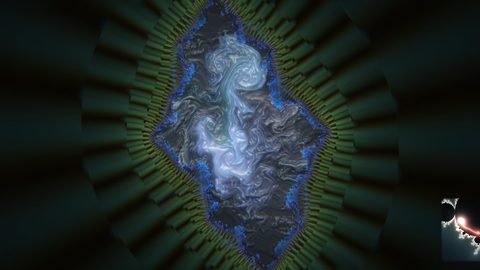
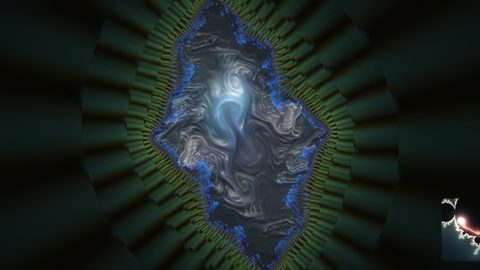
NAVPOOL: docs — §151 the edge is a paddle, unit 3, the accept tables
DECISIONS §151 (the remark, D1 as decided, the removals, the paddle's math and knobs, Toma's defaults, the deviations, the
BEFORE / PRED / AFTER tables, Toma's rulings, open items); docs/workers/navpool.md Unit 3 and the stale curl/vort/confinement
lines annotated; CONTRACTS' navpool row; index.js tag, card blurb and help (eli5 / why / math / kickEvt / kickAmp / mid / stir);
tools/accept/navpool/momentum-step4.txt, scene-md5-step4.txt, the spin strip and the look pairs (the tester's); the thumbnail 7:360.

Changed region(s): [[0.3125, 0.1185, 0.6562, 0.8593], [0.6562, 0.4741, 0.6875, 0.5037]]

diff --git a/assets/scenes/navpool/index.js b/assets/scenes/navpool/index.js
@@ -6,7 +6,8 @@
 // ../nav3/ copied, the program and hook names renamed (`n3*` → `np*`, hooks are dispatched by NAME across scenes); the Julia pass's
 // INTERIOR is a pool of ink lit as FLUID2 lights it (shaders-v2.js poolSh), over a trace of NAV3's Koenigs bands. Unit 2 (Toma: "I thought
 // the edge of the set would become the walls that it bounces the fluid off of?"): the pool is this scene's OWN solver (pool-sim.js) and
-// the set's boundary is its solid, moving wall; the ink is thrown along the critical orbit of c (pool.js) and the dance shoves it.
+// the set's boundary is its solid, moving wall; the ink is dropped on the critical orbit of c (pool.js) and the dance shoves it. Unit 3 (§151,
+// Toma: too much curl): no vorticity confinement, the orbit and the kick drop ink only, and the edge is a PADDLE — its motion pushes the pool.
 // `always: false`: updated only while on screen, so draw() / overlay() keep the forced-scene first-frame guards (CONTRACTS §1).
 import { TAU, clamp, mix, sstep, ema, frac, Spring } from '../../math/util.js';
 import { NAV, updateNav, knob5, ROLL, INT3 } from './nav.js';
@@ -34,8 +35,8 @@ export default {
   name: 'navpool',
   // key `8`; eighth in main.js's list so REG stays dense 0..7 (the id line has no comment: tools/thumbs.sh greps `^  id: 7,$`)
   id: 7,
-  tag: 'NAVPOOL: NAV3\'s dancing Julia set filled with FLUID2\'s pool — the critical orbit stirs the ink, the kick throws it, the drop rings it outward',
-  card: { title: 'NAVPOOL', blurb: 'the dancing Julia set filled with a pool of ink that the music stirs from inside' }, // landing tile (CONTRACTS §1.17); site/thumbs/navpool.jpg (tools/thumbs.sh "7:360")
+  tag: 'NAVPOOL: NAV3\'s dancing Julia set filled with FLUID2\'s pool — the critical orbit drops the ink, the set\'s edge paddles it round, the drop rings it outward',
+  card: { title: 'NAVPOOL', blurb: 'the dancing Julia set filled with a pool of ink that its edge paddles as it dances' }, // landing tile (CONTRACTS §1.17); site/thumbs/navpool.jpg (tools/thumbs.sh "7:360")
   // no `fluid` slot since unit 2: the shared substrate idles under this scene; its pool is its own (pool-sim.js)
   home: false,      // NAV2 (id 2) is the home; this is the workbench
   always: false,    // forced-only: updated only while on screen (the brief); draw() / overlay() guard the first frame before the first update()
@@ -120,7 +121,7 @@ export default {
       hit: 'a flash on the set\'s edge, a slight zoom-in, the bright head of the path in the picture-in-picture',
       bass: 'the glow of the set\'s interior, a 5 % zoom-in (and the size of the critical-orbit dots when the `dots` parameter is routed on — off by default since §144)',
       perc: 'how percussive the piece is scales the whole dance (the bass / kick / hit press on |λ|, the bar turn, the phrase sway, the snare twitch, the kick jump): a solo piano moves at a third of a kit\'s snap (§144)',
-      mid: 'the radius of the circular orbit trap; and the STIR: how much ink the critical orbit throws into the pool each second, and how fast (pool.js)',
+      mid: 'the radius of the circular orbit trap; and the STIR: how much ink the critical orbit drops into the pool each second (pool.js; §151: ink only, no thrust)',
       high: 'the circular trap\'s highlight',
       peaks: 'DRUM: the four spectral peaks become the four Koenigs modes (frequency picks the mode, amplitude its weight)',
       loudRel: 'how brightly the pool is lit (FLUID2\'s light); LOUD IS OUT (§145: and its RISE over ~2 s presses the ball to the rim and steers it to the gateway before a shift lands): the track\'s own loudness ladder sets |λ| — quiet near the component\'s centre (the Koenigs spiral loose), loud against the rim (the spiral tight, the curl); a rise over two bars asks the gate to open, a fall inside a child rolls the ball back out',
@@ -144,9 +145,9 @@ export default {
       bpm: 'how long that hue step takes to settle (a beat); the bar clock the gate\'s HOLD and the exit\'s patience count in',
       onset: 'v3\'s onset picker fires the kick when the ears\' lane is not published (move2.js)',
       hitStrength: 'how far that fallback kick goes',
-      kickEvt: 'a burst of ink along the first points of the critical orbit, thrown along its steps (pool.js); the kick: c jumps OUT through the rim along the wall\'s normal (the Julia set breaks into dust for a frame) and springs back — NAV\'s Misiurewicz jump without the table (§100 lane, §140 target)',
+      kickEvt: 'a burst of ink on the first points of the critical orbit (pool.js; §151: ink only — the wall\'s shove KICK_WALL is the kick\'s push); the kick: c jumps OUT through the rim along the wall\'s normal (the Julia set breaks into dust for a frame) and springs back — NAV\'s Misiurewicz jump without the table (§100 lane, §140 target)',
       kickAge: 'places that jump between frames: the spring is stepped by the age on the event frame',
-      kickAmp: 'how hard the kick\'s burst of ink is thrown; how far the jump goes (the sqrt law of §74, floor .31) and the goldilocks gate: a kick smaller than the threshold does not jump',
+      kickAmp: 'how much ink the kick\'s burst drops and how hard the wall shoves; how far the jump goes (the sqrt law of §74, floor .31) and the goldilocks gate: a kick smaller than the threshold does not jump',
       subGate: 'the sub sounding presses the ball toward the rim (the Koenigs arms tighten); the sub leaving relaxes it toward the centre',
       subNote: 'the bass note\'s lean (move2.js) — read, not yet a force on this scene',
       clockConfPcm: 'how big the beat breath is allowed to be: the clock\'s own confidence scales the per-beat press toward the rim',
@@ -155,9 +156,9 @@ export default {
       tongue41: 'the same accent from the 16th-note depth\'s rise',
       tongueOn: 'the accent\'s A/B gate: −1 (the stage off) is the plain profile',
     },
-    eli5: 'NAV3\'s dancing Julia set, but its inside is a pool of ink and its edge is the pool\'s wall. The music rolls the point c around the Mandelbrot set and the set dances; the path a point takes under z → z² + c throws ink into the pool, and as the edge breathes, kicks and implodes it shoves the ink, which piles up against it and bounces off.',
-    why: 'The critical orbit 0, c, c² + c, … never escapes while c is in M, so every point of it is inside the filled Julia set: the ink enters where the dynamics live, thrown along the step z → z² + c. The filled Julia set is the fluid and its outside is solid: the boundary is a wall that moves with c and the view, so the dance is a force on the ink.',
-    math: 'NAV3\'s mathematics (Koenigs coordinates inside a component of M, |λ| and arg λ as the music\'s coordinates, the parabolic implosion at the drop). The pool is a Stam solver (semi-Lagrangian advection, a Jacobi pressure projection) whose domain is the filled Julia set at the sim grid: Neumann pressure at the wall, the wall cells moving at −Δm/Δt along ∇m (m the escape mask), the ink lit by its luminance gradient (Lambert + Blinn).',
+    eli5: 'NAV3\'s dancing Julia set, but its inside is a pool of ink and its edge is the pool\'s wall. The music rolls the point c around the Mandelbrot set and the set dances; the path a point takes under z → z² + c drops ink into the pool, and the edge is a paddle: as the set turns, breathes, kicks and implodes it pushes the ink where it is going, and the pool keeps moving after it stops.',
+    why: 'The critical orbit 0, c, c² + c, … never escapes while c is in M, so every point of it is inside the filled Julia set: the ink enters where the dynamics live. The filled Julia set is the fluid and its outside is solid: the boundary is a wall that moves with c and the view, so the dance is a force on the ink — its normal motion shoves it, and its slide along itself (the view\'s turn and zoom) drags the near-wall fluid with it, with inertia, so the pool coasts after the edge stops. No force comes from the audio directly (§151).',
+    math: 'NAV3\'s mathematics (Koenigs coordinates inside a component of M, |λ| and arg λ as the music\'s coordinates, the parabolic implosion at the drop). The pool is a Stam solver (semi-Lagrangian advection, free slip at the wall, a Jacobi pressure projection, no vorticity confinement) whose domain is the filled Julia set at the sim grid: Neumann pressure at the wall, the wall cells moving at −Δm/Δt along ∇m (m the escape mask) plus the view\'s rigid tangential velocity ṗ = −ω·J·p − (ṡ/s)·p smoothed over EDGE_TAU, a one-sided push on a 4-cell near-wall band, the ink lit by its luminance gradient (Lambert + Blinn).',
   },
 
   score: () => 0,   // forced-only: the §93 roster (NAV2, DUST, TORUS2, FLUID) is unchanged
@@ -172,7 +173,7 @@ export default {
     trace: { eli5: 'how much of the set\'s own banded interior shows through under the pool', range: [0, 1], from: () => 0.25 },
     relief: { eli5: 'how deeply the light carves the edges of the ink', range: [0, 80], from: () => 24 },
     spec: { eli5: 'how bright the highlight on the ink is', range: [0, 2], from: () => 0.6 },
-    stir: { eli5: 'how much ink the set\'s orbit throws into the pool each second, and how fast', range: [0, 1], from: (MS) => MS.mid },
+    stir: { eli5: 'how much ink the set\'s orbit drops into the pool each second', range: [0, 1], from: (MS) => MS.mid },
     trap: { eli5: 'how wide the ring is that the orbit trap lights up', range: [0.35, 1.25], from: (S) => 0.35 + 0.9 * S.mid },
     zoom: { eli5: 'how far the view is pulled back from the Julia set', range: [0.5, 2], from: (S) => (1 - 0.05 * S.bass - 0.07 * S.hit) * (1 + 0.25 * S.dropEnv) },
     dots: { eli5: 'how big the dots of the critical orbit are (0 = none; §144: off by default — the head dot read as a white comet on a quiet piece; route it on, e.g. &param=navpool.dots=c:1.5)', range: [0, 3], from: () => 0 },

diff --git a/docs/workers/navpool.md b/docs/workers/navpool.md
@@ -27,7 +27,7 @@ mapping). `CARD.REG[7].scene.hooks.npinfo().pool` = `{vis, on, n, nSplat, total,
 **Shape.** No shared substrate any more (no `fluid` slot): `pool-sim.js` is the scene's own Stam solver (`pool-shaders.js`), the core's
 tier tables and pass order, RGBA16F `ctx.mkTarget` ping-pongs, stepped in `draw()` once per `update()` (`armSim` / `stepSim`), right
 after the Julia pass so the MASK uses that frame's own uniforms. Step: MASK (escape test at the sim grid, 1 inside, ≤ .5 outside with a
-one-cell soft edge from the distance estimate; fluid is m > .75) → splats → curl → vort → WALLV (solid cells move at −Δm/Δt along ∇m,
+one-cell soft edge from the distance estimate; fluid is m > .75) → splats → curl → vort [§151: curl / vort GONE; EDGE + PADDLE after WALLV — see Unit 3] → WALLV (solid cells move at −Δm/Δt along ∇m,
 `WALL_K` 1, capped `WALL_VMAX`) → div (0 in the wall) → Jacobi (Neumann: a solid neighbour reads the centre) → grad → advect (never out of
 the wall; the dye's wall level is `DYE_THR` .3 so the ink reaches the drawn edge; dye in the wall leaves in `FADE_TAU`, `SQUEEZE` of it onto
 the rim; `pool.js` FLOOR adds a thin ink floor per second in every fluid cell).
@@ -49,12 +49,13 @@ pumps ink without bound, the second drains the edge because the boundary flicker
 
 **Tester round 3.** Grain in re-grown lobes on long runs was the vorticity confinement amplifying the wall's velocity jump: VORT is off
 on and beside the wall. Deep wall ink is held (not walked up the mask). Bisect recipe: `&npsim=CURL:0` / `SQUEEZE:0` / `WALL_K:0` at f2000.
+[§151: VORT and KS.CURL are gone, so `CURL:0` is a no-op now; bisect the paddle with `PADDLE_GAIN:0` / `SLIP:0` / `EDGE_NORM:0`.]
 
 **Quiet-machine bench** (2026-10-28, after the tester's sign-off; GPU=1, `CARD.bench(id, 300)` × 4 at f600, q pinned .95 = tier 3, each
 scene on its own page; medians): NAV3 1.75 ms · FLUID2 0.53 ms (its show pass only — the shared substrate step is outside `bench`) ·
 NAVPOOL 2.63 ms draw only, **3.87 ms with its mask + solver** (`&npsim=BENCH:1`). Unpinned, all three hold q 1.000 at f900.
 
-## Silence — the pool coasts to rest, the dance idles (DECISIONS §149 addendum; Toma: *"when the music stops something weird happens where the fluid speeds up really quickly"* · *"I also noticed that the set keeps rotating even though there is no sound, it was just faint"*)
+## Silence — the pool coasts to rest, the dance idles [§151: the confinement and its gate are gone; the dance gate is unchanged] (DECISIONS §149 addendum; Toma: *"when the music stops something weird happens where the fluid speeds up really quickly"* · *"I also noticed that the set keeps rotating even though there is no sound, it was just faint"*)
 - **The finding (the pool).** The solver self-excites in silence through the vorticity confinement: VORT's force is linear in |curl|
   (`uCurlK·|C|·dt`, `KS.CURL` 30, the core's pool default) and at 30 on the 128 grid it beats VEL_DISS .2/s + the scheme's numerical
   damping, so any residual (the last music, a droplet, the wall's Δm flicker) grows until advection saturates it at ~.5–.7 uv/s and winds the
@@ -73,7 +74,8 @@ NAVPOOL 2.63 ms draw only, **3.87 ms with its mask + solver** (`&npsim=BENCH:1`)
   and (tester round 1, A7) §145's centroid running range eased with `dt * g`. With a frozen centroid, cLo crept up to it, the range fell
   under its .05 floor, and θ drifted about .0017 per 100 frames in a run muted from the start.
   Under music g = 1.0 and every term is `x·1`, which is bit-exact, so the fake pair `eedd6403 / 62b63ea2` does not move. No new uniform,
-  feat or param. KS.CURL stays 30.
+  feat or param. KS.CURL stays 30. [§151: the confinement and its gate are gone (KS.CURL, SIM.gate, armSim's gate, VORT); the dance gate
+  `idleGate` in nav.js is unchanged.]
 - **Which files diverged from nav3 and why.** `nav.js` and `knobs.js` are no longer copies of nav3's: the gate is navpool's local idle.
   nav3 keeps dancing in silence as §142 designed (scene 6 is the control). `move2.js` / `green.js` / `shaders.js` stay byte copies: the
   breath is gated where it is READ, not where move2 makes it, so `M2.breath` itself still pulses in silence. New read-only npinfo
@@ -87,6 +89,52 @@ NAVPOOL 2.63 ms draw only, **3.87 ms with its mask + solver** (`&npsim=BENCH:1`)
   Shots: `silence-before|after-f600/1000/1200/1500.jpg`.
 - **Identity under real audio is not exact:** a cold-start file run's presence ramps from 0 over ~25 frames, so the gate is below 1
   there. The fake timeline (presence 1) is the exact proof; real-audio music frames are compared within 10 %.
-- **Known gaps** (DECISIONS §149 addendum): a quiet room on a live mic can hold presence at .15–.3, which gives partial confinement and a
+- **Known gaps** (DECISIONS §149 addendum) [§151: the confinement half of this gap is gone with the confinement]: a quiet room on a live mic can hold presence at .15–.3, which gives partial confinement and a
   noise seed. The engine findings (`perc` → 1 on silence; the beat clock coasting at the held bpm) are logged as follow-ups. nav3,
   core and engine are untouched.
+
+## Unit 3 — the edge is a paddle (DECISIONS §151; Toma: the fluid curls and swirls far too much with the music — the edge should act as a paddle, the fluid pushed where the edge is going and still moving afterwards)
+
+**What went.** Nothing forces curl from the audio any more. The vorticity confinement is gone: the CURL / VORT passes and shaders, the curl
+target, `KS.CURL`, `SIM.gate`, armSim's gate (`armSim(dt, on, now)` takes `env.now`). The orbit stir and the kick burst drop INK ONLY
+(`F.splat(x, y, 0, 0, …)`; `PK.V` / `PK.KICK_V` / `dirUv` deleted): their thrusts wrapped round the attracting cycle, a vortex driven by
+mid × presence. Their ink stays (D1b: it is what makes the motion visible). The drop ring (`RING_V`) and the kick's wall shove
+(`KICK_WALL`) stay. The edge's own audio reaction (the dance, the zoom pulse) is untouched.
+
+**The paddle.** Step: mask → splat → WALLV → **EDGE** → **PADDLE** → div → Jacobi → grad → advect → adye.
+- `edgeRates(view, prev, dt)` (pure, node-tested by finite difference against `pool.js toUv`): the view's raw rigid rates, spin = dθ/dt
+  (wrapped, clamped `SPIN_MAX` 6), grow = ln(s/s')/dt (clamped `GROW_MAX` 4), slide (0 today). Field ṗ = −spin·J·p − grow·p − R(−w)·ẋy/s,
+  p = (2uv − 1)(asp, 1). A +rot view turn is a clockwise screen field: L < 0.
+- GAP (rates 0, `edg` cleared, msk[1] := msk[0]): the first step, a re-alloc, the switch off, a wall-clock step 50 ms off dt (a stall,
+  an off-screen gap, a seek), |dθ| > `EDGE_JUMP` .5, |dγ| > .3. `npinfo().pool.gaps` counts them.
+- EDGE: on wall cells raw = WALLV's velocity (× `EDGE_NORM` 1) + the rigid field's tangential part; `edg` = mix(raw, edgOld, e^(−dt/EDGE_TAU)),
+  `EDGE_TAU` .06 s.
+- PADDLE: a fluid cell within `PADDLE_BAND` 4 cells (8 directions) of a solid tap takes up ue = `PADDLE_GAIN` 3 × mean(edg) (capped
+  `PADDLE_VMAX` 1 in HEIGHT units/s, uv·(asp, 1)), one-sided: v += ê·min(gap, |ue|)·w·(1 − e^(−PADDLE_K·dt)), `PADDLE_K` 8/s. It never brakes.
+- `SLIP` 1: the velocity back-trace is mask-weighted (a solid tap reads the cell's own velocity) — free slip at the staircase wall.
+
+**Deviations from the signed-off plan.** (1) The impulse is capped at |ue|: the plan's uncapped gap BRAKED — after a stop edg decays with
+a noise direction and flow opposing it was dragged to ~0 (rim .11 → .05 in 6 frames). (2) `PADDLE_VMAX` is in height units, not uv/s.
+(3) `rim.curl` in the probe is read on the near-wall band (fluid, 4 fluid neighbours, a solid within 3: `rim.nc` cells), because the
+stencil rule excludes every rim cell. (4) Toma's defaults GAIN 3 / BAND 4 / SLIP 1 instead of the plan's 1 / 3 / (none): at gain 1
+the paddle added too little motion over the removal-only pool (A12). `SLIP` and `EDGE_NORM` are new knobs.
+
+**Seeing it.** `CARD.REG[7].scene.hooks.npwall()`: per class `ke`, `curl` (`nc`), overall `L` (signed angular momentum about the screen
+centre, aspect-true), `nf`, `nan`, `wall.edge` (mean |edg|). `npinfo().pool`: `spin`, `grow`, `gaps`, `spinTh`. Hooks (harness only):
+`npspin(rate, frames)` / `&npspin=1.5,60` turns the drawn view for N updates then HOLDS (θs 0 by default: bit-exact); `nppk` /
+`&nppk=KEY:v` sets `pool.js PK`. A/B: `&npsim=PADDLE_GAIN:0` (removal only), `PADDLE_GAIN:1,PADDLE_BAND:3,SLIP:0` (the plan's).
+
+**Recipes / tables.** `tools/accept/navpool/momentum-step4.txt` (the calibration BEFORE / PRED-S2a / PRED-S2b, the S2a / S2b re-measures,
+AFTER), `scene-md5-step4.txt`, the shot strips `momentum-*.jpg`. Real audio is not run-to-run deterministic (the file's push alignment):
+real columns are means of two runs; muted recipes are accepted only at "MUTED at frame 600 sample 1424896".
+
+**Results** (02215d7, the tester's runs; `momentum-step4.txt` §5). Curl AFTER/BEFORE mean .472 (all 12 points < 1: fake deep .37/.37/.10,
+rim .80/.71/.27; real deep .34/.26/.32, rim .69/.86/.59). Spin recipe (+1.5 rad/s for 60 frames at f900, muted, DYE_DISS 0): ΔL(f960)
+−.274 (74 % of solid body; removal-only −.0022), coast .78 at +.5 s and .60 at +1 s, the edge's velocity at 3.5 % 12 frames after the
+stop; mirrored −1.5 gives +.319, .83 / .63. Real audio vs removal-only: rim speed 1.21×, |L| 1.52×. Silence still rests (recipe B deep
+.0043 at f1200, .0013 at f1500). Cost +.12 ms (loaded machine, within noise). s7 md5 de6085f2 / fa715035; s0–s6 unmoved.
+
+**Known consequences.** (1) The rim holds less ink on real audio (A8c: .49× BEFORE at f900): the orbit's thrust no longer carries ink
+to the wall (D1). (2) Recipe A's f60 deep speed .0242 is the pre-existing start-up transient (BEFORE .0217) plus ~.0025 from the paddle
+on the start-up edge motion; ≤ .003 from f160. (3) After a fast spin the sheared near-wall band rolls up into a ring of small eddies near
+the rim — edge-driven curl, decaying; A3c (the curl cap calibrated against audio curl) is not a gate for it (Toma's ruling).

diff --git a/docs/DECISIONS.md b/docs/DECISIONS.md
@@ -6391,3 +6391,60 @@ rotating even though there is no sound, it was just faint"*. Toma's choice on sy
 - **Where the work lives.** Branch **`nav3-shift` at b6cf345**, untouched; a later pass can take pieces of it (the sub-confirmed
   slam, the EXT breath) without the arm that cost the shifts.
 - **The tag.** `v0.45` **deleted locally**; it was never pushed. **v0.44.0 remains the live version** (retinarave.com, §146).
+
+## §151 NAVPOOL: the edge is a paddle (2026-11-06, branch `navpool-momentum` off main 1618035, NOT merged; one Opus builder + one Opus tester under the Fable orchestrator; Toma: the fluid curls and swirls far too much with the music — *the edge should act as a paddle: the fluid is pushed where the edge is going and keeps moving afterwards*)
+
+- **The remark, and what it asked for.** Direct audio-driven curl injection REMOVED ENTIRELY (not damped); the edge's motion is ONE
+  driver among the ones that stay; the edge's own audio reaction (the dance, the zoom pulse) untouched. The §149 work, uncommitted on
+  main, is the branch's first commit (`ecefca0`); main did not move.
+- **D1, as decided by Toma.** Remove the vorticity confinement and the velocity of the orbit droplets and kick bursts (their own commit,
+  revertable alone); keep their INK (D1b: the ink floor is the same in every cell, so without the orbit ink nothing traces the motion);
+  keep the drop ring (`RING_V`) and the kick's wall shove (`KICK_WALL`); add the edge's motion, tangential part included.
+- **The removals.** S2a `9ca2701`: CURL / VORT passes, shaders and programs, the curl target, `KS.CURL`, `SIM.gate`, armSim's gate
+  (now `armSim(dt, on, now)`, `now` = env.now); `idleGate` stays in knobs.js for nav.js's dance. S2b `ee06b06`: `PK.V`, `PK.KICK_V`,
+  `dirUv`; the stir and kick splats are `F.splat(x, y, 0, 0, …)`; an ink-only batch skips the velocity splat pass (bit-exact).
+  The orbit's thrusts wrapped round the attracting cycle — a vortex driven by mid × presence; removal alone took ~56 % off the curl.
+- **The paddle** (S3 `fb60eae`, defaults `02215d7`). Order: mask → splat → wallv → **edge** → **paddle** → div → Jacobi → grad → advect → adye.
+  `edgeRates(view, prev, dt)` gives the view's RAW rigid rates (dθ wrapped; spin clamped `SPIN_MAX` 6 rad/s, grow = ln(s/s')/dt clamped
+  `GROW_MAX` 4 /s, the slide 0 today); from z = xy + s·R(w)·p the screen field is ṗ = −spin·J·p − grow·p − R(−w)·ẋy/s, p = (2uv − 1)(asp, 1),
+  proven in node against `pool.js toUv` by central difference (5 points, worst 1.6e-7). A GAP (rates 0, `edg` cleared, msk[1] := msk[0]):
+  the first step, a re-alloc, the switch off, a wall-clock step 50 ms off dt, |dθ| > `EDGE_JUMP` .5, |dγ| > .3. EDGE: on wall cells
+  raw = WALLV's normal velocity (× `EDGE_NORM` 1) + the rigid field's tangential part (texel space), `edg` = mix(raw, edgOld,
+  e^(−dt/`EDGE_TAU`)), .06 s — the one smoothing stage. PADDLE: a fluid cell within `PADDLE_BAND` cells (8 directions) of a solid tap
+  takes ue = `PADDLE_GAIN` × mean(edg of the nearest solid taps), capped `PADDLE_VMAX` 1, one-sided: v += ê·min(gap, |ue|)·w·(1 − e^(−K·dt)),
+  w = 1 − (d − 1)/band, `PADDLE_K` 8 /s. It never brakes, so the pool coasts after the edge stops.
+- **Toma's defaults** (after the A12 / A3c conflict was escalated): `PADDLE_GAIN` 3, `PADDLE_BAND` 4, `SLIP` 1. At the plan's 1 / 3 the
+  paddle added too little over the removal-only pool (rim 1.01×, |L| 1.05× vs the 1.1× asked).
+- **Deviations from the signed-off plan** (all agreed with the tester). (1) The push is capped at |ue|: the plan's uncapped gap BRAKED —
+  after a stop edg decays with a noise direction and flow opposing it was dragged to ~0 (rim .11 → .05 in 6 frames); capped, the coast
+  went .55 / .22 → .58 / .41 at gain 1. (2) `PADDLE_VMAX` is in height units/s (uv·(asp, 1)), not uv/s. (3) The probe's `rim.curl` is
+  read on the near-wall band (fluid, 4 fluid neighbours, a solid within 3), since the stencil rule excludes every rim cell. (4) New knobs:
+  `SLIP` (the velocity back-trace mask-weighted as ADYE's: a solid tap reads the cell's own velocity — free slip at the staircase wall
+  instead of the bilinear blend of the wall's zero tangential velocity, a numerical no-slip drag; 0 = the old ADVECT line) and
+  `EDGE_NORM` (A/B). (5) The harness hooks `npspin` / `nppk` live in pool.js (no scene index.js exports named symbols).
+- **Harness** (S1 `b5d16ea`, no pixel moved): `npwall()` adds `ke`, `curl` (+ `nc`) per class, `L` (signed angular momentum about the
+  screen centre, aspect-true; a +rot view turn drives it negative), `nf`, `nan`, `wall.edge`; `npinfo().pool` adds `spin`, `grow`, `gaps`,
+  `spinTh`; `npspin(rate, frames)` / `&npspin=1.5,60` turns the drawn view then holds; `nppk` / `&nppk=KEY:v` sets `PK`.
+- **Tables** (`tools/accept/navpool/momentum-step4.txt`; real columns = means of two runs at one alignment, real audio is not
+  run-to-run deterministic):
+
+  | | BEFORE | PRED-S2a | PRED-S2b | AFTER 02215d7 |
+  |---|---|---|---|---|
+  | curl ratio, mean of 12 | 1 | .618 | .439 | .472 (all 12 < 1) |
+  | fake f240 deep / rim (1/s) | 21.3 / 23.1 | 11.7 / 19.6 | 6.06 / 20.2 | ratio .374 / .804 |
+  | spin ΔL(f960), +1.5 rad/s | — | — | −.0022 | −.274 (74 % of solid body) |
+  | coast ΔL(+.5 s) / ΔL(+1 s) | — | — | .48 / .38 | .78 / .60 |
+  | real rim speed / \|L\| vs S2b | — | — | 1 | 1.21× / 1.52× |
+  | silence B deep f1200 / f1500 | .0123 / .0036 | — | — | .0043 / .0013 |
+
+  S2a and S2b re-measured on their commits reproduce PRED bit-exactly. A2: s0–s6 unmoved, s7 de6085f2 / fa715035
+  (`scene-md5-step4.txt`). A8 interior Y −14 % / −6 % / −2 %, grain p99 7.0 (BEFORE 8.0). A10 +.12 ms (loaded machine). A11 byte-equal.
+  Shot strips `momentum-spin-strip.jpg` (BEFORE / PRED-S2b / gain 1 / gain 3, f900…f1080) and `momentum-look-pairs.jpg`.
+- **Toma's rulings on the record.** A3c (the curl cap calibrated against AUDIO curl) is not a gate: the curl the paddle makes at the edge
+  is the intended effect (F600 rim .268 vs .267). A8c's rim-ink miss (real f900 .49× BEFORE) is a known consequence of D1: the orbit's
+  thrust no longer carries ink to the wall. A7 recipe A's f60 .0242 is the pre-existing start-up spike (BEFORE .0217) plus ~.0025 of
+  paddle on the start-up edge motion.
+- **The look.** BEFORE: tight crinkly spirals. AFTER: smooth streamers that flow along the set's lobes and turn with the set; after a
+  fast spin the sheared near-wall band rolls up into a ring of small eddies near the rim, which decays.
+- **Open.** `pool-sim.js` is 384 lines (check.js soft cap 350). The rim's thinner ink on real audio (D1). Toma's eye on the dev stack is
+  the final gate; no merge, tag or push before his OK.

diff --git a/docs/CONTRACTS.md b/docs/CONTRACTS.md
@@ -425,7 +425,8 @@ a NAV2 clone whose table walk is replaced by the ball rolling inside M on `math/
 forced-only: `score()` 0, `home: false`, `always: false`; its hooks are `n3*` / `green3` / `baby3` because hooks are dispatched by NAME
 across scenes — `&n2lum`, `&baby`, `CARD.hooks.green` stay NAV2's) · **7 navpool** (key `8`; §149 — NAV3's dancing set with FLUID2's pool INSIDE it: a NAV3 clone whose Julia interior
 (the `conv` and no-chart branches) is the scene's OWN fluid solver (`pool-sim.js`, unit 2) whose solid, moving wall is the set's
-boundary, lit as FLUID2's show pass over a 0.25× trace of the Koenigs bands, the ink thrown along the critical orbit of c (`pool.js`);
+boundary, lit as FLUID2's show pass over a 0.25× trace of the Koenigs bands, the ink dropped on the critical orbit of c (`pool.js`);
+§151: the set's edge paddles the pool (its rigid turn / zoom drags the near-wall fluid, with inertia); no vorticity confinement;
 no `fluid` slot (the shared substrate idles under it); forced-only: `score()` 0, `home: false`,
 `always: false`; hooks `np*` / `greenp` / `babyp` / `nppin` (the key pin); the v2 colour mapping only).
 Archived at §118 (`archive/scenes/`, the old → new map in `archive/README.md`; nothing imports them but `tools/test_nav2.js`, which
